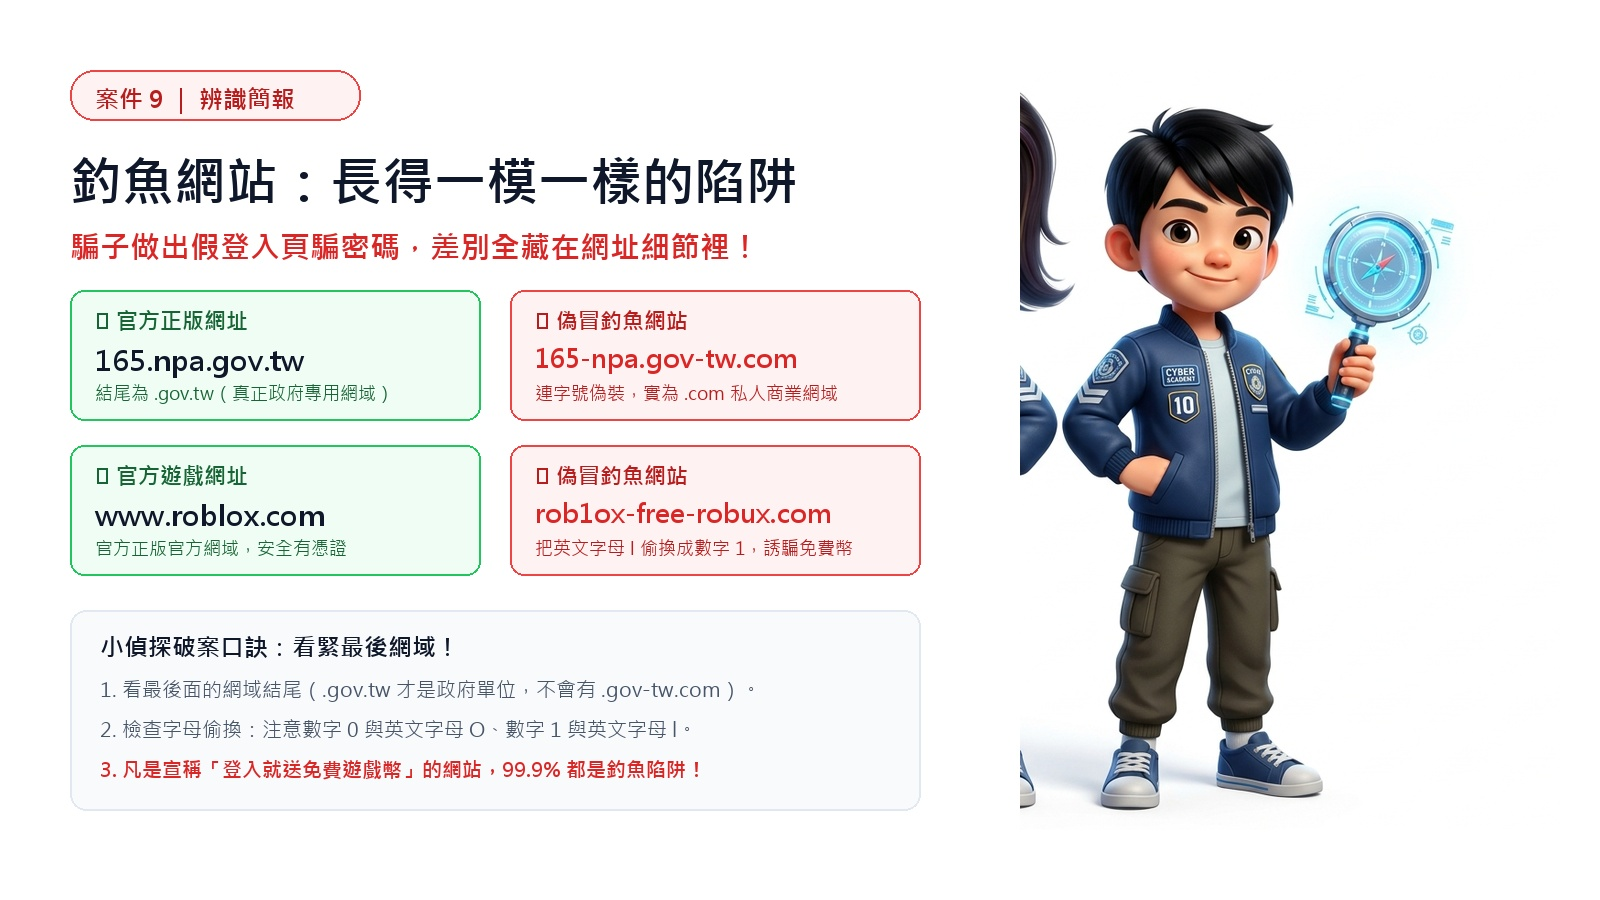
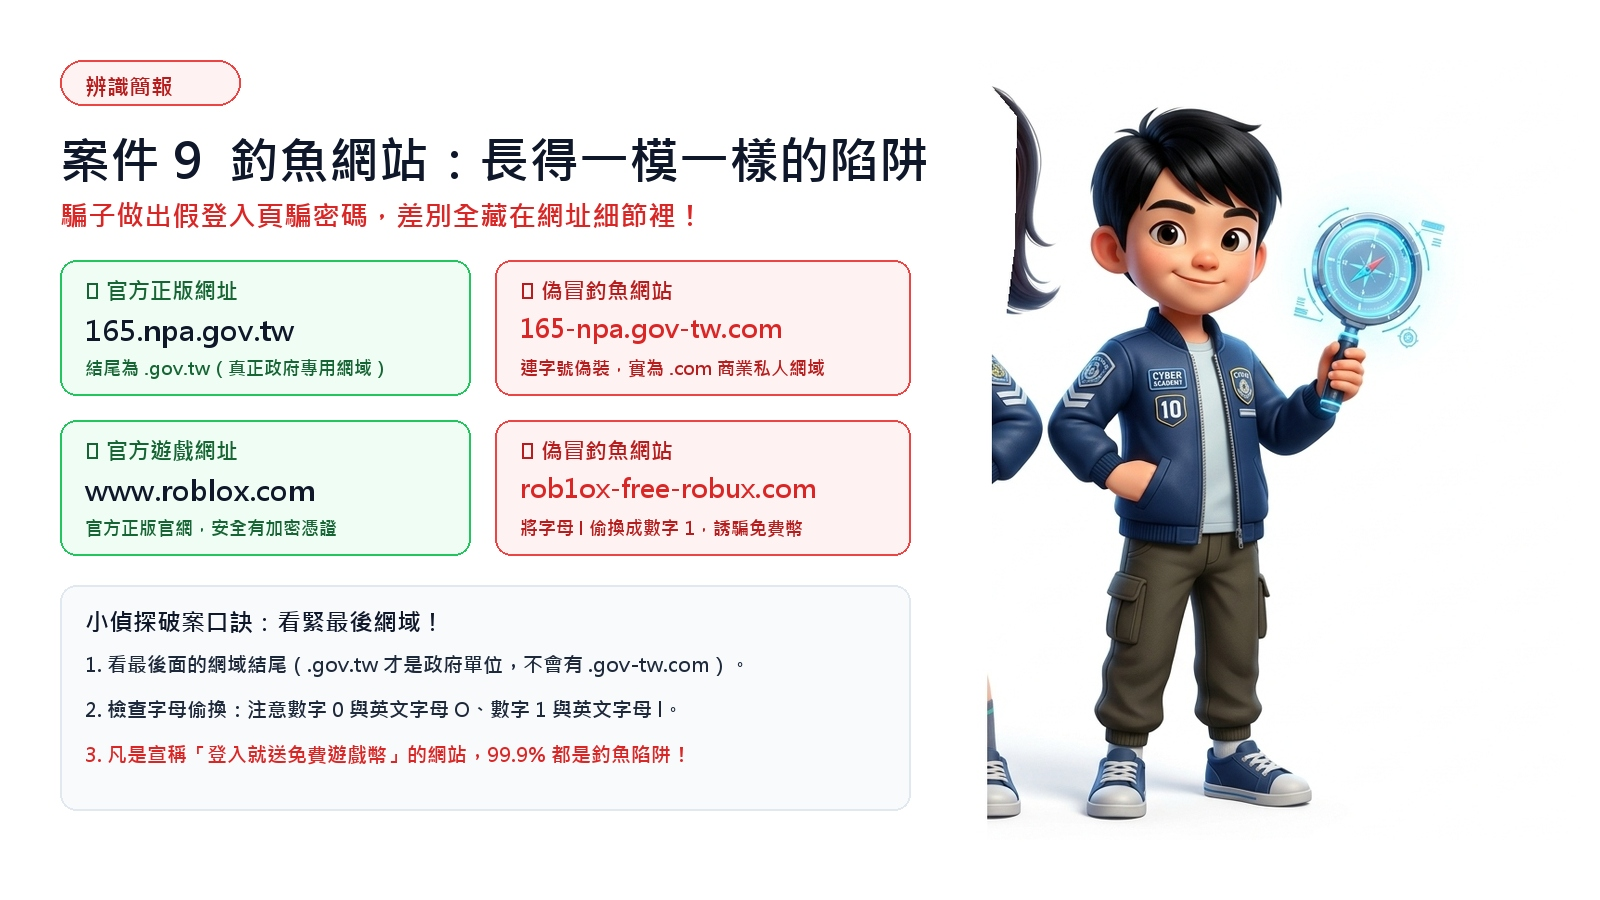
fix(case1,case9): 案件1白襯衫女孩像素級精密無痕去包，案件9徹底清除女孩殘影保留單人小偵探

Changed region(s): [[0.0312, 0.0622, 0.5938, 0.6533], [0.5625, 0.0933, 0.9062, 0.9333], [0.0312, 0.6844, 0.4688, 0.8711]]

diff --git a/units/g5-cyber-safety/index.html b/units/g5-cyber-safety/index.html
@@ -404,7 +404,7 @@
         {
           title: '案件 1　資料變寶藏',
           text: '資料經過整理，變成資訊；資訊找出規律，變成知識；知識拿來做決定，就是智慧。越往上越有價值，也越需要保護。',
-          slides: ['assets/final_case1.jpg?v=20261023_perfect1'],
+          slides: ['assets/final_case1.jpg?v=20261023_truly_perfect?v=20261023_truly_perfect'],
           interactive: GAMES.dikw,
           quizzes: [
             {
@@ -614,7 +614,7 @@
         {
           title: '案件 9　釣魚網址與 QR code',
           text: '釣魚網站長得跟真的一模一樣，差別藏在網址裡。看網址要看<b>最後面的網域</b>；路邊貼的 QR code 也可能是假的。',
-          slides: ['assets/final_case9_phish.jpg?v=20261023_vivid', 'assets/e2_qr_v3.jpg?v=20261023_vivid'],
+          slides: ['assets/final_case9_phish.jpg?v=20261023_clean_boy?v=20261023_clean_boy', 'assets/e2_qr_v3.jpg?v=20261023_vivid'],
           interactive: GAMES.url,
           quizzes: [
             {
